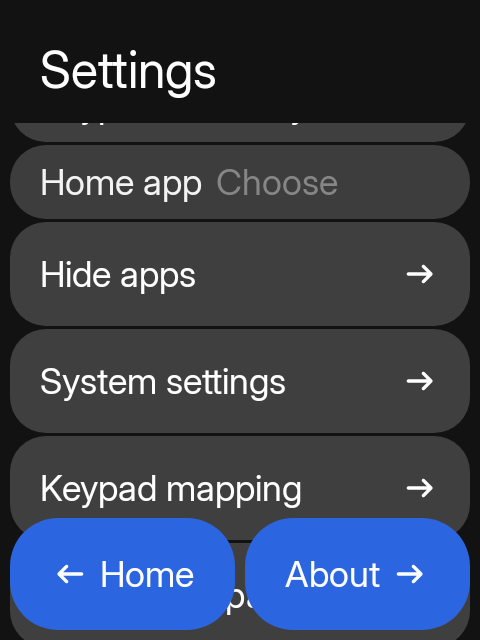
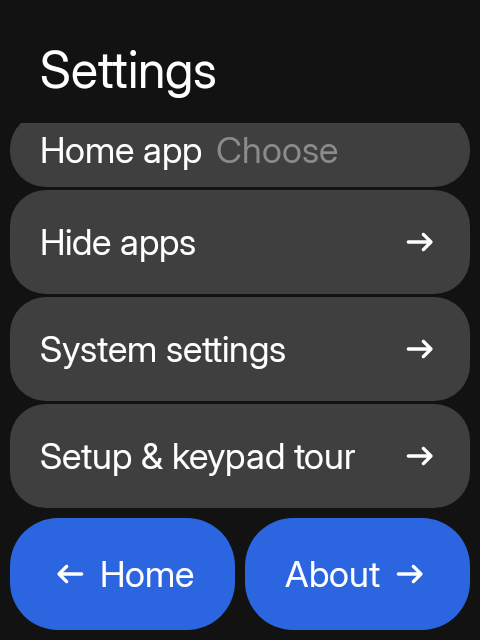
Consolidate keypad preferences on a Keyboard settings page

Changed region(s): [[0.0, 0.1875, 1.0, 1.0]]

diff --git a/app/src/main/java/hrln/interactive/sidekit/apps/settings/SettingsScreen.kt b/app/src/main/java/hrln/interactive/sidekit/apps/settings/SettingsScreen.kt
@@ -3,7 +3,6 @@ package hrln.interactive.sidekit.apps.settings
 import android.app.ActivityManager
 import android.app.role.RoleManager
 import android.app.usage.StorageStatsManager
-import android.content.ComponentName
 import android.content.Context
 import android.content.Intent
 import android.os.Build
@@ -26,9 +25,6 @@ import hrln.interactive.sidekit.R
 import hrln.interactive.sidekit.apps.everyday.CompactRowHeight
 import hrln.interactive.sidekit.design.action.SideAction
 import hrln.interactive.sidekit.design.components.*
-import hrln.interactive.sidekit.design.input.KeypadModule
-import hrln.interactive.sidekit.design.input.LocalKeypad
-import hrln.interactive.sidekit.design.input.T9Mode
 import hrln.interactive.sidekit.design.theme.SidekitTheme
 import hrln.interactive.sidekit.navigation.SubApp
 import hrln.interactive.sidekit.onboarding.OnboardingScreen
@@ -44,10 +40,11 @@ fun NavGraphBuilder.settingsGraph(nav: NavHostController) {
             onSetup = { nav.navigate("${SubApp.Settings.route}/setup") },
             onHiddenApps = { nav.navigate("${SubApp.Settings.route}/hidden-apps") },
             onSystem = { nav.navigate("${SubApp.Settings.route}/system") },
-            onKeypadMapping = { nav.navigate(keypadMappingRoute()) },
+            onKeyboard = { nav.navigate(keyboardSettingsRoute()) },
             onArrange = { nav.navigate("${SubApp.Settings.route}/arrange") }
         )
     }
+    keyboardSettingsGraph(nav)
     keypadMappingGraph(nav)
     composable("${SubApp.Settings.route}/hidden-apps") { HiddenAppsScreen { nav.popBackStack() } }
     composable("${SubApp.Settings.route}/system") { SystemSettingsScreen { nav.popBackStack() } }
@@ -58,20 +55,15 @@ fun NavGraphBuilder.settingsGraph(nav: NavHostController) {
 }
 
 @Composable
-internal fun SettingsHome(onHome: () -> Unit, onAbout: () -> Unit, onCaseColour: () -> Unit = {}, onSetup: () -> Unit = {}, onHiddenApps: () -> Unit = {}, onSystem: () -> Unit = {}, onKeypadMapping: () -> Unit = {}, onArrange: () -> Unit = {}) {
+internal fun SettingsHome(onHome: () -> Unit, onAbout: () -> Unit, onCaseColour: () -> Unit = {}, onSetup: () -> Unit = {}, onHiddenApps: () -> Unit = {}, onSystem: () -> Unit = {}, onKeyboard: () -> Unit = {}, onArrange: () -> Unit = {}) {
     val context = LocalContext.current
     val prefs = remember { SidekitPreferences(context) }
     val caseColour = rememberCaseColour(prefs)
-    val keypad = LocalKeypad.current
     var revision by remember { mutableIntStateOf(0) }
     var message by remember { mutableStateOf<String?>(null) }
     LifecycleResumeEffect(Unit) {
         revision++
         onPauseOrDispose {}
-    }
-    val accessibility = remember(revision) {
-        val enabled = Settings.Secure.getString(context.contentResolver, Settings.Secure.ENABLED_ACCESSIBILITY_SERVICES).orEmpty()
-        enabled.split(':').mapNotNull(ComponentName::unflattenFromString).any { it.packageName == context.packageName && it.className.endsWith("KeypadAccessibilityService") }
     }
     val home = remember(revision) { context.getSystemService(RoleManager::class.java).isRoleHeld(RoleManager.ROLE_HOME) }
     fun open(action: String) {
@@ -83,7 +75,6 @@ internal fun SettingsHome(onHome: () -> Unit, onAbout: () -> Unit, onCaseColour:
     }
     val listLayout = remember(revision) { prefs.listLayout }
     val compactLayout = remember(revision) { prefs.compactLayout }
-    val inputMode = remember(revision) { prefs.inputMode }
     val list = rememberLazyListState()
     SidekitScaffold("Settings", actions = listOf(SideAction.back("home", "Home", onHome), SideAction.forward("about", "About", onAbout))) { padding ->
         SidekitList(padding, state = list) {
@@ -102,29 +93,12 @@ internal fun SettingsHome(onHome: () -> Unit, onAbout: () -> Unit, onCaseColour:
                     revision++
                 })
             }
-            // Detected from the keys pressed; tapping overrides it until another module's key is seen.
-            // A custom mapping fixes the module, so then the row opens the mapping instead.
-            val custom = keypad?.mapper?.customModule
-            item {
-                SidekitItem("Keypad", Modifier.height(CompactRowHeight).listFade(list, 4), secondary = custom?.let { "${it.label} · custom" } ?: keypad?.module?.label ?: "None", onClick = {
-                    if (custom != null) onKeypadMapping() else keypad?.let { it.useModule(KeypadModule.entries[(it.module.ordinal + 1) % KeypadModule.entries.size]) }
-                    revision++
-                })
-            }
-            item {
-                SidekitItem("Input mode", Modifier.height(CompactRowHeight).listFade(list, 5), secondary = if (inputMode == T9Mode.Numeric) "Numbers" else "Letters", onClick = {
-                    prefs.inputMode = T9Mode.entries[(prefs.inputMode.ordinal + 1) % T9Mode.entries.size]
-                    keypad?.let { prefs.applyInputDefault(it) }
-                    revision++
-                })
-            }
-            item { SidekitItem("Keypad Back key", Modifier.height(CompactRowHeight).listFade(list, 6), secondary = if (accessibility) "Enabled" else "Enable", onClick = { open(Settings.ACTION_ACCESSIBILITY_SETTINGS) }) }
-            item { SidekitItem("Home app", Modifier.height(CompactRowHeight).listFade(list, 7), secondary = if (home) "Sidekit" else "Choose", onClick = { open(Settings.ACTION_HOME_SETTINGS) }) }
+            // All keypad preferences live together on the Keyboard page, with the key diagram.
+            item { SidekitItem("Keyboard", Modifier.height(CompactRowHeight).listFade(list, 4), secondary = "Keys & input", onClick = onKeyboard) }
+            item { SidekitItem("Home app", Modifier.height(CompactRowHeight).listFade(list, 5), secondary = if (home) "Sidekit" else "Choose", onClick = { open(Settings.ACTION_HOME_SETTINGS) }) }
             item { SidekitItem("Hide apps", showLinkArrow = true, onClick = onHiddenApps) }
             // Device settings live on their own page, so this screen stays Sidekit's own settings.
             item { SidekitItem("System settings", showLinkArrow = true, onClick = onSystem) }
-            // Advanced: custom mapping for keypads Sidekit doesn't recognise, or keys moved around.
-            item { SidekitItem("Keypad mapping", secondary = if (custom != null) "Custom" else null, showLinkArrow = custom == null, onClick = onKeypadMapping) }
             item { SidekitItem("Setup & keypad tour", showLinkArrow = true, onClick = onSetup) }
             message?.let { item { SidekitCard { SidekitText(it, style = SidekitTheme.typography.label, maxLines = Int.MAX_VALUE) } } }
         }

diff --git a/app/src/main/java/hrln/interactive/sidekit/apps/settings/KeyboardSettingsScreen.kt b/app/src/main/java/hrln/interactive/sidekit/apps/settings/KeyboardSettingsScreen.kt
@@ -1,0 +1,119 @@
+package hrln.interactive.sidekit.apps.settings
+
+import android.content.ComponentName
+import android.content.Intent
+import android.provider.Settings
+import androidx.compose.foundation.layout.height
+import androidx.compose.foundation.lazy.rememberLazyListState
+import androidx.compose.runtime.*
+import androidx.compose.ui.Modifier
+import androidx.compose.ui.platform.LocalContext
+import androidx.lifecycle.compose.LifecycleResumeEffect
+import androidx.navigation.NavGraphBuilder
+import androidx.navigation.NavHostController
+import androidx.navigation.compose.composable
+import hrln.interactive.sidekit.apps.everyday.CompactRowHeight
+import hrln.interactive.sidekit.design.action.SideAction
+import hrln.interactive.sidekit.design.components.*
+import hrln.interactive.sidekit.design.input.KeypadModule
+import hrln.interactive.sidekit.design.input.LocalKeypad
+import hrln.interactive.sidekit.design.input.T9Mode
+import hrln.interactive.sidekit.navigation.SubApp
+import hrln.interactive.sidekit.onboarding.KeypadDemo
+
+private val KEYBOARD = "${SubApp.Settings.route}/keyboard"
+
+internal fun keyboardSettingsRoute() = KEYBOARD
+
+/** Settings > Keyboard: what the keypad does and what its keys look like. */
+internal fun NavGraphBuilder.keyboardSettingsGraph(nav: NavHostController) {
+    composable(KEYBOARD) {
+        KeyboardSettingsScreen(
+            back = { nav.popBackStack() },
+            onKeypadMapping = { nav.navigate(keypadMappingRoute()) }
+        )
+    }
+}
+
+/**
+ * One page for the keypad preferences that used to be separate rows on the Settings home:
+ * the module, the input mode, the Back key service and the custom mapping. The diagram below
+ * describes the keys of the module in use, including a custom mapping's choice.
+ */
+@Composable
+internal fun KeyboardSettingsScreen(back: () -> Unit, onKeypadMapping: () -> Unit) {
+    val context = LocalContext.current
+    val prefs = remember { SidekitPreferences(context) }
+    val keypad = LocalKeypad.current
+    var revision by remember { mutableIntStateOf(0) }
+    LifecycleResumeEffect(Unit) {
+        revision++
+        onPauseOrDispose {}
+    }
+    val accessibility = remember(revision) {
+        val enabled = Settings.Secure.getString(context.contentResolver, Settings.Secure.ENABLED_ACCESSIBILITY_SERVICES).orEmpty()
+        enabled.split(':').mapNotNull(ComponentName::unflattenFromString).any {
+            it.packageName == context.packageName && it.className.endsWith("KeypadAccessibilityService")
+        }
+    }
+    val inputMode = remember(revision) { prefs.inputMode }
+    val custom = keypad?.mapper?.customModule
+    val module = keypad?.module ?: KeypadModule.T9
+    val list = rememberLazyListState()
+    SidekitScaffold("Keyboard", actions = listOf(SideAction.back("back", "Settings", back))) { padding ->
+        SidekitList(padding, state = list) {
+            // A custom mapping fixes the module: the row opens its editor instead of cycling.
+            item {
+                SidekitItem(
+                    "Keypad",
+                    Modifier.height(CompactRowHeight).listFade(list, 0),
+                    secondary = custom?.let { "${it.label} · custom" } ?: module.label,
+                    onClick = {
+                        if (custom != null) {
+                            onKeypadMapping()
+                        } else {
+                            keypad?.useModule(KeypadModule.entries[(module.ordinal + 1) % KeypadModule.entries.size])
+                            revision++
+                        }
+                    }
+                )
+            }
+            item {
+                SidekitItem(
+                    "Input mode",
+                    Modifier.height(CompactRowHeight).listFade(list, 1),
+                    secondary = if (inputMode == T9Mode.Numeric) "Numbers" else "Letters",
+                    onClick = {
+                        prefs.inputMode = T9Mode.entries[(prefs.inputMode.ordinal + 1) % T9Mode.entries.size]
+                        keypad?.let { prefs.applyInputDefault(it) }
+                        revision++
+                    }
+                )
+            }
+            item {
+                SidekitItem(
+                    "Keypad Back key",
+                    Modifier.height(CompactRowHeight).listFade(list, 2),
+                    secondary = if (accessibility) "Enabled" else "Enable",
+                    onClick = {
+                        try {
+                            context.startActivity(Intent(Settings.ACTION_ACCESSIBILITY_SETTINGS))
+                        } catch (_: Exception) {
+                            // Leave the row unchanged if the system page isn't available.
+                        }
+                    }
+                )
+            }
+            item {
+                SidekitItem(
+                    "Keypad mapping",
+                    Modifier.height(CompactRowHeight).listFade(list, 3),
+                    secondary = if (custom != null) "Custom" else null,
+                    showLinkArrow = custom == null,
+                    onClick = onKeypadMapping
+                )
+            }
+            item { KeypadDemo(module, idleHint = "Tap a key to learn its action.") }
+        }
+    }
+}

diff --git a/app/src/test/java/hrln/interactive/sidekit/apps/settings/KeypadMappingUiTest.kt b/app/src/test/java/hrln/interactive/sidekit/apps/settings/KeypadMappingUiTest.kt
@@ -30,7 +30,9 @@ class KeypadMappingUiTest {
     private val chrome = ChromeState()
     private lateinit var keypad: Keypad
 
-    @Before fun clear() { prefs.edit().clear().commit() }
+    @Before fun clear() {
+        prefs.edit().clear().commit()
+    }
 
     private fun show(module: KeypadModule = KeypadModule.T9, content: @Composable () -> Unit) {
         compose.setContent {
@@ -186,13 +188,37 @@ class KeypadMappingUiTest {
         compose.onRoot().captureRoboImage("screenshots/keypad_mapping_tester.png")
     }
 
-    @Test fun settingsLeadsToTheMapping() {
+    @Test fun settingsHasOneKeyboardEntry() {
         var opened = 0
-        show { SettingsHome({}, {}, onKeypadMapping = { opened++ }) }
-        compose.onNodeWithText("Keypad").assertIsDisplayed()
-        scrollTo("Keypad mapping")
-        compose.onRoot().captureRoboImage("screenshots/keypad_mapping_settings.png")
-        compose.onNodeWithText("Keypad mapping").performClick()
+        show { SettingsHome({}, {}, onKeyboard = { opened++ }) }
+        scrollTo("Keyboard")
+        compose.onNodeWithText("Keys & input").assertIsDisplayed()
+        // The old separate keypad rows are gone: one entry leads to the Keyboard page.
+        compose.onNodeWithText("Input mode").assertDoesNotExist()
+        compose.onNodeWithText("Keypad Back key").assertDoesNotExist()
+        compose.onNodeWithText("Keypad mapping").assertDoesNotExist()
+        compose.onRoot().captureRoboImage("screenshots/keyboard_settings_home.png")
+        compose.onNodeWithText("Keyboard").performClick()
         assertEquals(1, opened)
+    }
+
+    @Test fun keyboardPageShowsPreferencesAndDiagram() {
+        var mapping = 0
+        show(KeypadModule.T9) { KeyboardSettingsScreen({}, onKeypadMapping = { mapping++ }) }
+        compose.onNodeWithText("Keyboard").assertIsDisplayed()
+        compose.onNodeWithText("Keypad").assertIsDisplayed()
+        compose.onNodeWithText("Input mode").assertIsDisplayed()
+        compose.onNodeWithText("Keypad Back key").assertIsDisplayed()
+        compose.onNodeWithText("Keypad mapping").assertIsDisplayed()
+        // Tapping the keypad row cycles the module, and the diagram follows it.
+        compose.onNodeWithText("Keypad").performClick()
+        compose.runOnIdle { assertEquals(KeypadModule.Qwerty, keypad.module) }
+        compose.onNodeWithText("Mini QWERTY").assertIsDisplayed()
+        // The diagram is below the preferences: scroll to it and check a key and its caption.
+        scrollTo("Tap a key to learn its action.")
+        compose.onNodeWithText("QW").assertIsDisplayed()
+        compose.onRoot().captureRoboImage("screenshots/keyboard_settings_page.png")
+        scrollTo("Keypad mapping").performClick()
+        assertEquals(1, mapping)
     }
 }

diff --git a/app/src/main/java/hrln/interactive/sidekit/onboarding/KeypadDemo.kt b/app/src/main/java/hrln/interactive/sidekit/onboarding/KeypadDemo.kt
@@ -63,12 +63,12 @@ internal fun demoRows(module: KeypadModule): List<List<DemoKey>> {
 }
 
 @Composable
-internal fun KeypadDemo(module: KeypadModule) {
+internal fun KeypadDemo(module: KeypadModule, idleHint: String = "Tap a key to learn its action. This demo stays in setup.") {
     var selected by rememberSaveable(module) { mutableStateOf<String?>(null) }
     val rows = remember(module) { demoRows(module) }
     val caption = SidekitTheme.typography.label.copy(fontSize = 20.sp, lineHeight = 21.sp)
     Column(verticalArrangement = Arrangement.spacedBy(6.dp)) {
-        SidekitText(rows.flatten().firstOrNull { it.label == selected }?.action ?: "Tap a key to learn its action. This demo stays in setup.", style = caption, maxLines = 3, modifier = Modifier.height(64.dp))
+        SidekitText(rows.flatten().firstOrNull { it.label == selected }?.action ?: idleHint, style = caption, maxLines = 3, modifier = Modifier.height(64.dp))
         rows.forEach { row ->
             Row(horizontalArrangement = Arrangement.spacedBy(6.dp)) {
                 row.forEach { key ->
